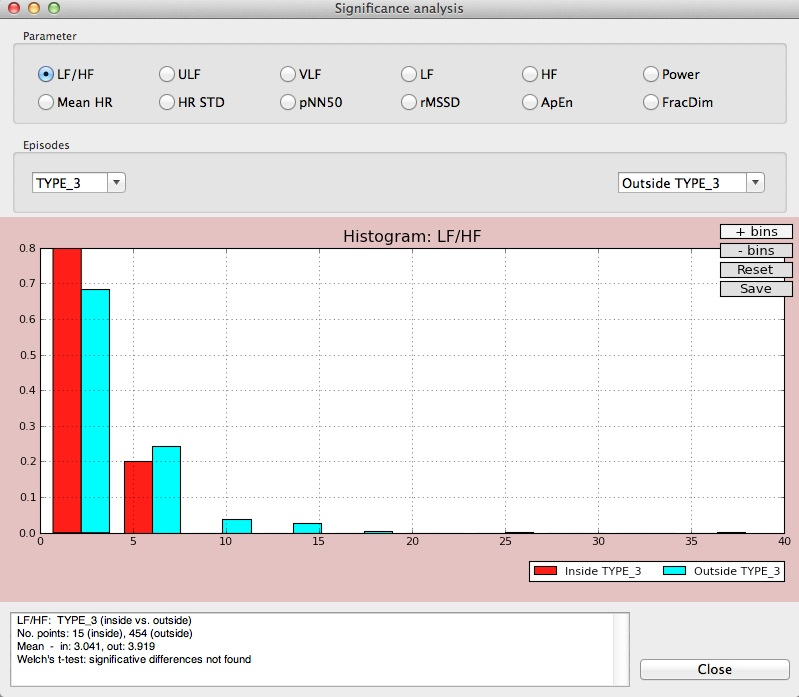
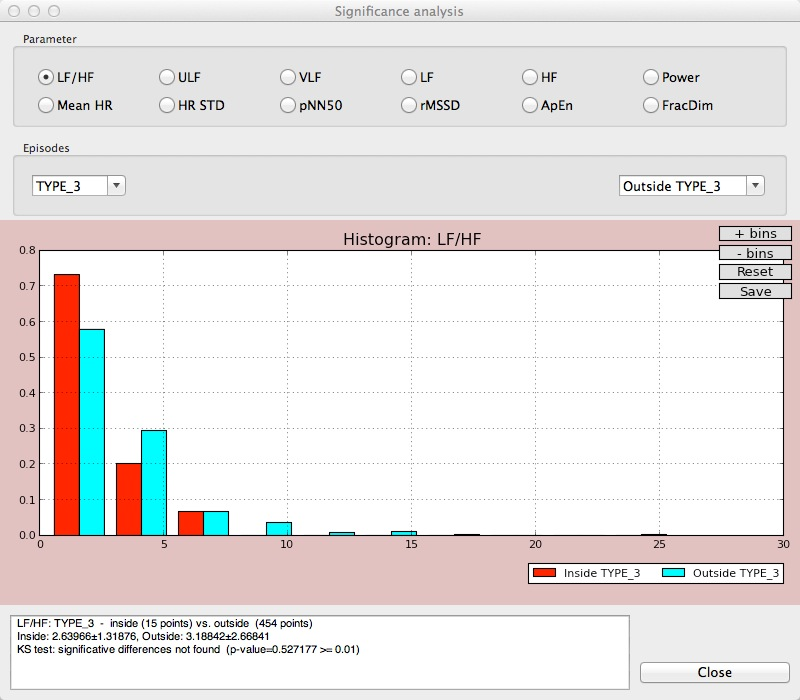
Doc updated to version 1.5

diff --git a/doc.html b/doc.html
@@ -165,7 +165,7 @@
 
         <h3>OSX</h3>
 
-        <p>OSX binary is distributed as a <strong>gHRV_X_YY.dmg</strong> file. To install, open the file and a new window appears with a file named gHRV.app inside.</p>
+        <p>OSX binary is distributed as a <strong>gHRV_X_YY.dmg</strong> file. To install, open the file and a new window appears with a file named gHRV.app inside. Depending on the security configuration of the computer, it may be possible that the system does not allow to install the program. In this case, the simplest and easiest way is to CTRL-click (or right click) the <strong>gHRV_X_YY.dmg</strong> file, and on the revealed context menu, choose ‘Open.’ </p>
 
         <img src="docfigures/Figure4.jpg" class="screenshot"/>
         <p class="imgtxt">OSX installation: folder containing the installation files for <strong>gHRV</strong></p>
@@ -261,7 +261,7 @@
         <img src="docfigures/Figure8.jpg" class="screenshot"/>
         <p class="imgtxt">Initial view for <strong>gHRV</strong></p>
 
-        <p>Once the application is running, the appearance of <strong>gHRV</strong> is quite similar to those that can be present in other widely used softwares.</p>
+        <p>Once the application is running, the appearance of <strong>gHRV</strong> is quite similar to those that can be present in other widely used programs.</p>
 
         <img src="docfigures/Figure9.jpg" class="screenshot"/>
         <p class="imgtxt"><strong>gHRV</strong> icon: double-click for executing</p>
@@ -284,10 +284,10 @@
         <img src="docfigures/Figure11.jpg" class="screenshot"/>
         <p class="imgtxt">Initial project loading error message</p>       
 
-        <p>When the selected project is retrieved, it can be observed that the <strong>Load</strong> options are all blurred (not allowed), and the <strong>Save, Clear</strong> and <strong>Settings </strong> options from the <strong>Projects Panel</strong> are now active, and can be executed.</p> 
+        <p>When the selected project is retrieved, it can be observed that the <strong>Load</strong> options are all disabled, and the <strong>Save, Clear</strong> and <strong>Settings </strong> options from the <strong>Projects Panel</strong> are now enabled.</p> 
 
         <img src="docfigures/Figure12.jpg" class="screenshot"/>
-        <p class="imgtxt">I<strong>gHRV</strong> project retrieved from SimpleProjectgHRVfile</p>       
+        <p class="imgtxt"><strong>gHRV</strong> project retrieved from SimpleProjectgHRVfile</p>       
 
         <p>In the upper left corner of the graph area, options for zooming or reducing the graph, or for displacing the signal points along the time axis can be observed.</p>
 
@@ -470,7 +470,7 @@
         <img src="docfigures/Figure37.jpg" class="screenshot"/>
         <p class="imgtxt"> Visualization options for the spectral analysis </p>
 
-        <p>By clicking on the <strong>Significance</strong> option, users can also select the parameter to be included study. The plot will show the distribution of the selected parameter inside/outside an episode, or in two different episodes. A Welch's t-test is performed on these values and the result of this test is shown at the bottom of the window. Click on the Close button when you have finished the significance analysis.</p>
+        <p>By clicking on the <strong>Significance</strong> option, users can also select the parameter to be included study. The plot will show the distribution of the selected parameter inside/outside an episode, or in two different episodes. A Kolmogorov-Smirnov test for statistic independence is performed on these values and the result of this test is shown at the bottom of the window. Click on the Close button when you have finished the significance analysis.</p>
 
         <img src="docfigures/Figure38.jpg" class="screenshot"/>
         <p class="imgtxt"> Significance option for a selected parameter </p>
@@ -488,22 +488,28 @@
         <p>Finally, click the <strong>End</strong> option when you have finished the temporal evolution analysis.</p>
 
         <h3>Poincaré Plot</h3>
-        <p>The last option of the <strong>Tools Panel</strong> is the possibility of obtaining the <strong>Poincaré plot</strong>, used for quanitfying the self-similarity of signals. In this particular case, it represents a scatterplot of the current R-R interval, plotted against the preceding R-R interval, and provides gloabl and detailed beat-to-beat information on the behavior of the heart.</p>
 
-        <p>By clicking oh the <strong>Poincaré plot</strong> button, the global plot for the whole heart rate data is presented on a new window.</p>
+        <p>The last button of the <strong>Tools Panel</strong> is for obtaining the <strong>Poincaré plot</strong>, useful for quantifying the self-similarity of signals by representing a scatterplot of each RR interval against the preceding ones. <strong>Poincaré plots</strong> provide global and detailed beat-to-beat information on the heart behavior.</p>
+
+        <p>By clicking on the <strong>Poincaré plot</strong> button, a new plot for the whole record is presented on a new window.</p>
 
         <img src="docfigures/Figure41.jpg" class="screenshot"/>
-        <p class="imgtxt"> Poincaré plot for the global ECG </p>
+        <p class="imgtxt">Global Poincaré plot</p>
 
         <p>The user can also select different Poincaré plots, among the different episodes and intervals present in the data that are being analyzed.</p>
 
         <img src="docfigures/Figure42.jpg" class="screenshot"/>
         <p class="imgtxt"> Two different Poincaré plots for two types of episodes</p>
 
-        <p>Finally, the plot can be saved to a selected directory, clicking on ‘s’ on the lower menu bar.</p>
+        <p>The plot can be saved to a selected directory, clicking <strong>Save</strong> on the upper left corner of the plot.</p>
 
         <img src="docfigures/Figure43.jpg" class="screenshot"/>
         <p class="imgtxt"> Saving a Poincaré plot.</p>
+
+        <p>Finally, the limits of the plot can be customized, allowing the users to compare Poincaré plots of different records, clicking <strong>Config</strong> on the upper left corner of the plot.</p>
+
+        <img src="docfigures/Figure43b.jpg" class="screenshot"/>
+        <p class="imgtxt"> Customizing the limits in a Poincaré plot.</p>
 
         <h3>Report</h3>
         <p>Finally, a report including the analysis performed in the previous stages can be generated, by clicking the <strong>Report</strong> option. A resume window including the data analysis and results in then presented.</p>
